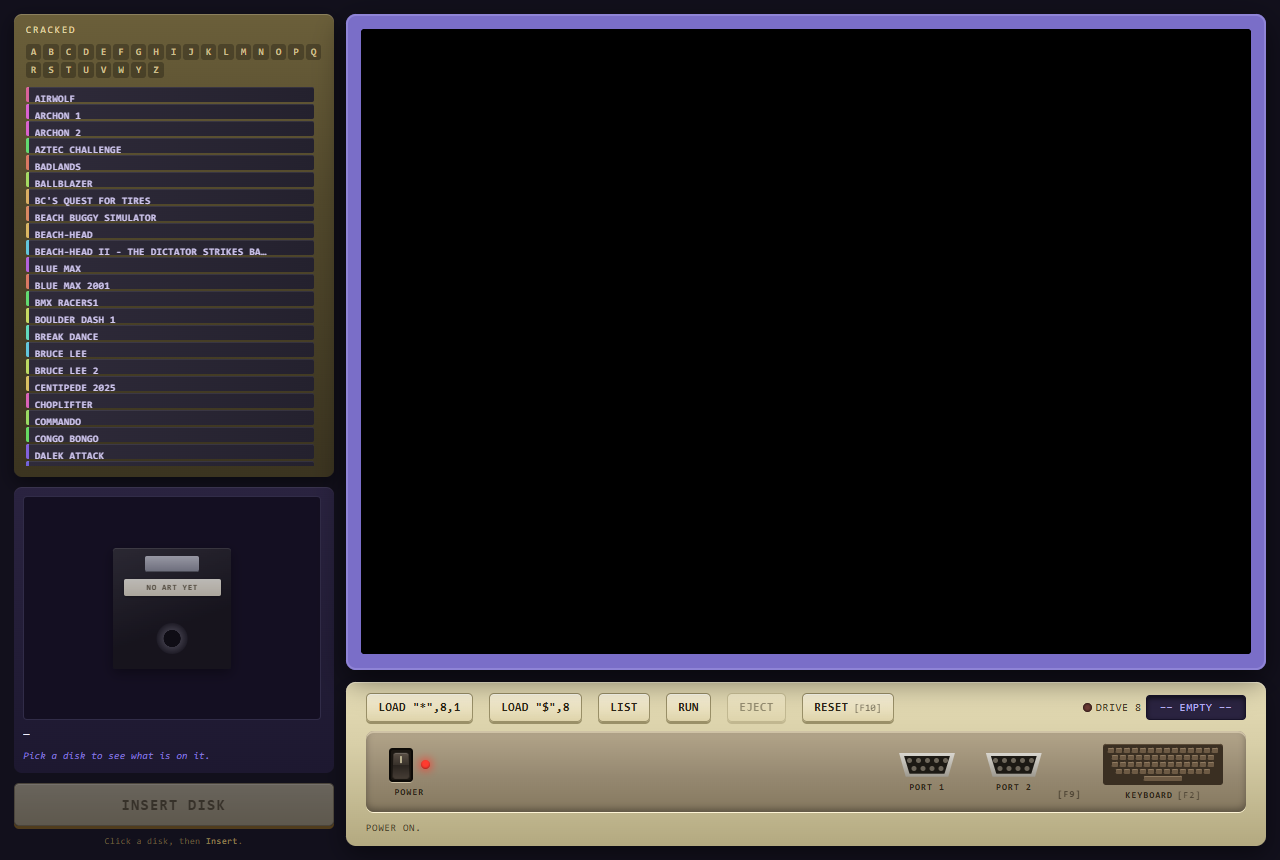
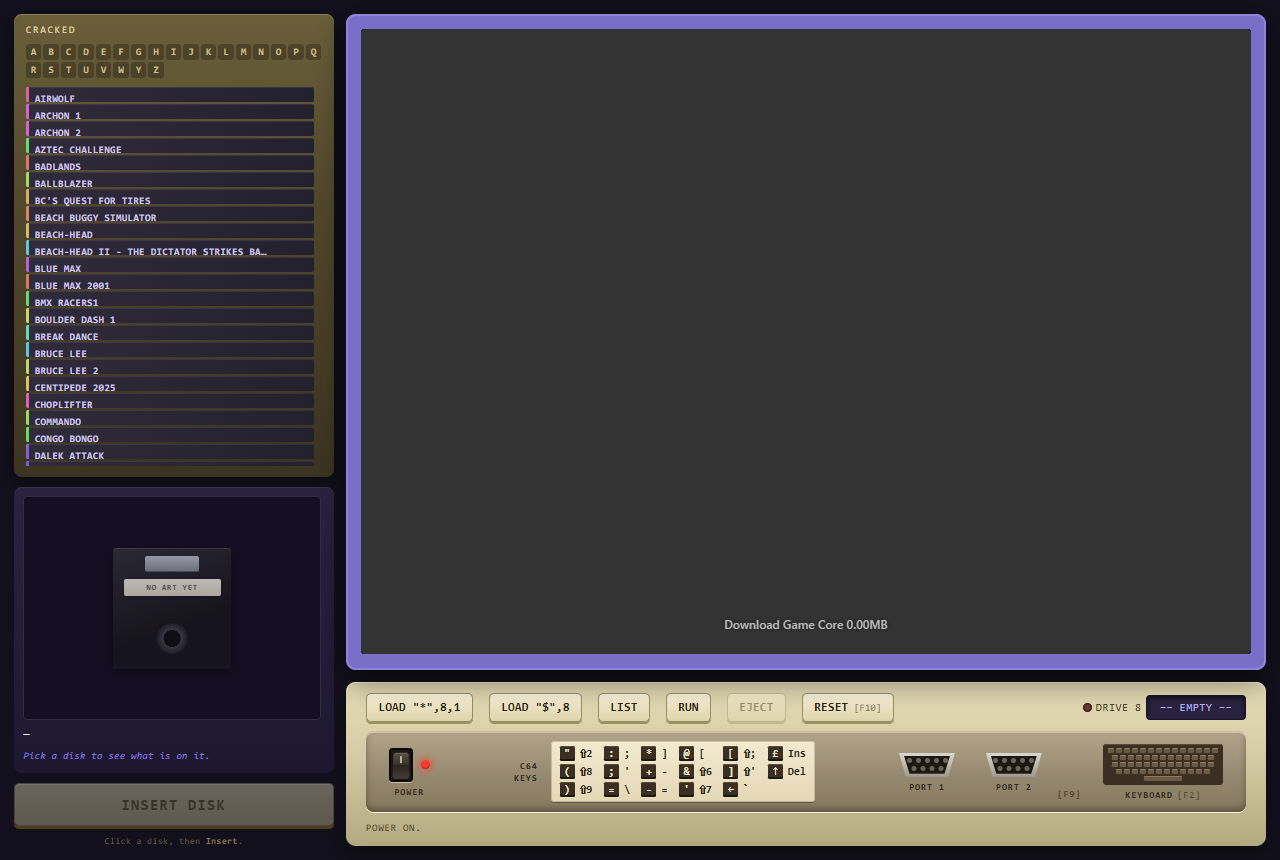
The side panel gains a key card, and the ordinary hub learns to swap sides
Committed on Andrew's word of 2026-09-17, unseen by him: installed Fang Rock
serves Game/ live, so the key card is already on his screen to judge.

THE KEY CARD takes the old .c64-side__gap spacer on #c64-side and says where the
moved characters live, because his ruling of 2026-09-17 made hand typing
POSITIONAL - a key types what sits in that place on a real C64, not what the PC
label says. 17 rows, every one measured by a scratch probe that sent real key
events and read the answer out of screen RAM, not derived from a table: " is
Shift+2, * is ], + is -, : is ;, and so on; everything else is the PC label. The
card dims in joystick mode, when no key types.

THE ORDINARY HUB'S OVERLAY SWAP was broken, and is fixed. Its swapDisk() named a
function EmulatorJS does not have; the real one is setCurrentDisk. A multi-sided
game now boots on an in-memory playlist zip built in playlistMedia() before the
loader, because the core prefers the .m3u inside a zip, and a swap is one
setCurrentDisk call with no reset. One-sided games are untouched. A disk button
also posts cat:focus now: frame.focus() alone lands keys on the iframe's body,
which the core never listens to - a bug that can make a rig "pass" on a stale
screen. emulator/README.md's swap section is rewritten as fixed.

Both rigs are green on a quiet machine: verify-c64 82/0 (new §J reads the rows
off the card and types each, 17/17; new §K drives the overlay swap in a second
[…]

diff --git a/Game/cat/emulator/emu.js b/Game/cat/emulator/emu.js
@@ -24,6 +24,9 @@
    things to check in order are (1) the core loads at all, (2) Ctrl fires,
    (3) a two-disk game swaps without resetting. `./README.md` carries that as
    a checklist.
+   🔄 All three have since been watched on the real core: (1) and (2) on
+   2026-09-08/09, and (3) on 2026-09-17, when the swap was rebuilt on the
+   machine's measured call (see DISK SWAPPING) — verify-c64.mjs §I and §J.
    ========================================================================= */
 (function () {
   "use strict";
@@ -380,6 +383,12 @@
       return;
     }
     if (m.type === "cat:swap") swapDisk(Number(m.index));
+    /* the hub's play-bar buttons take the keyboard with the click. Focusing this
+       iframe from outside only lands keys on its <body>, which the core does
+       not listen to (measured 2026-09-17: after a disk button, typed keys went
+       nowhere) — so the hub asks, and the core's own element takes focus, as
+       the machine's cat:focus does. */
+    if (m.type === "cat:focus" && keyTarget()) keyTarget().focus();
     /* The hub asks for a FLIP, not for a specific state - it has no business
        holding the authoritative value. This answers with what actually took. */
     if (m.type === "cat:input") setInputMode(!kbdMode);
@@ -391,6 +400,18 @@
   /* -----------------------------------------------------------------------
      DISK SWAPPING — ruling 4, built now rather than deferred.
 
+     🔄 2026-09-17 — FIXED, IN LINE WITH THE MACHINE'S SWAP (his ruling: "bring it
+     in line with the corner's working swap"). It never worked: it tried three
+     method names EmulatorJS 4.2.3 does not have (setCurrentDiskIndex,
+     functions.setDisk, setDisk), and the core was only ever handed side 1, so
+     it had no other side to swap to. Now:
+     1. a game with more than one side BOOTS ON A PLAYLIST of all of them
+        (playlistMedia(), in boot) — the same in-memory .m3u zip the machine
+        boots on — so the core's own disk control holds every side from the start;
+     2. a swap is gameManager.setCurrentDisk(index), the call the machine makes,
+        measured live on the running core: the game is NOT reset.
+     A one-sided game still boots on its image directly, exactly as before.
+
      🚨 THE HARD PART, AND WHY THIS REFUSES INSTEAD OF GUESSING. A real
      multi-disk C64 game asks you to swap while it is RUNNING and then reads
      the drive again; the machine is never reset. Reloading the emulator with
@@ -398,60 +419,55 @@
      the game would lose everything and land back at its title screen, and the
      player would blame the game.
 
-     So: try the core's real disk-control interface, and if no shape of it is
-     present, SAY SO and offer a restart the player chooses explicitly. 🚫 Do
-     not make the restart automatic. A silent restart dressed as a swap is the
+     So: use the core's real disk-control interface, and if it is not there,
+     SAY SO and offer a restart the player chooses explicitly. 🚫 Do not make
+     the restart automatic. A silent restart dressed as a swap is the
      silent-wrong-destination failure the hub refuses one layer up.
-
-     ⚠ Three shapes are tried because EmulatorJS's disk-control surface has
-     moved between versions and none of them was available to test against
-     when this was written. Whichever one answers on the real core, keep them
-     all — a version bump is exactly when this quietly stops working.
-     --------------------------------------------------------------------- */
+     ⚠ If an EmulatorJS upgrade renames setCurrentDisk, this refuses (and
+     verify-c64.mjs §J goes red); it never falls back to reloading the page. */
+  var playlist = false;   /* true once this game booted on every side at once */
   function swapDisk(index) {
     if (!(index >= 0 && index < DISKS.length)) return;
     if (index === current) return;
 
-    var gm = window.EJS_emulator && window.EJS_emulator.gameManager;
-    var tried = [];
-
-    function attempt(label, fn) {
-      if (tried.indexOf(true) > -1) return;
-      try {
-        if (fn()) {
-          current = index;
-          toHub({ type: "cat:swapped", index: index, how: label });
-          tried.push(true);
-        }
-      } catch (err) {
-        toHub({ type: "cat:swapnote", note: label + " threw: " + err.message });
-      }
+    var g = gm();
+    /* 🚫 Deliberately not a restart. The hub renders a refusal as a choice. */
+    var refuse = function (reason) { toHub({ type: "cat:swapfailed", index: index, reason: reason }); };
+    if (!playlist) { refuse("this game did not boot with its other sides in the drive's list"); return; }
+    if (!g || typeof g.setCurrentDisk !== "function") { refuse("this core exposes no live disk-control interface"); return; }
+    try {
+      g.setCurrentDisk(index);
+    } catch (err) {
+      toHub({ type: "cat:swapnote", note: "setCurrentDisk threw: " + err.message });
+      refuse("the core refused the swap");
+      return;
     }
+    current = index;
+    toHub({ type: "cat:swapped", index: index, how: "setCurrentDisk" });
+  }
 
-    attempt("setCurrentDiskIndex", function () {
-      if (!gm || typeof gm.setCurrentDiskIndex !== "function") return false;
-      gm.setCurrentDiskIndex(index);
-      return true;
-    });
-    attempt("functions.setDisk", function () {
-      if (!gm || !gm.functions || typeof gm.functions.setDisk !== "function") return false;
-      gm.functions.setDisk(index);
-      return true;
-    });
-    attempt("diskControl", function () {
-      if (!gm || typeof gm.setDisk !== "function") return false;
-      gm.setDisk(index);
-      return true;
-    });
-
-    if (tried.indexOf(true) === -1) {
-      /* 🚫 Deliberately not a restart. The hub renders this as a choice. */
-      toHub({
-        type: "cat:swapfailed",
-        index: index,
-        reason: "this core exposes no live disk-control interface"
+  /* THE PLAYLIST a game with more than one side boots on: every side fetched,
+     then an .m3u naming them in order, zipped with them in memory (zipStore,
+     below). Side 1 is first, so the drive and autostart begin there as they
+     always did. 🚫 Same origin only, like the machine's inserts. */
+  function playlistMedia() {
+    var urls = DISKS.map(sameOriginUrl);
+    var bad = urls.indexOf(null);
+    if (bad !== -1) return Promise.reject(new Error("side " + (bad + 1) + " is not a file from this arcade"));
+    return Promise.all(urls.map(function (u, i) {
+      return fetch(u).then(function (r) {
+        if (!r.ok) throw new Error("side " + (i + 1) + " did not load (HTTP " + r.status + ")");
+        return r.arrayBuffer();
       });
-    }
+    })).then(function (bufs) {
+      var names = urls.map(function (u, i) {
+        var ext = (decodeURIComponent(u.split(/[?#]/)[0]).match(/\.[a-z0-9]{1,4}$/i) || [".d64"])[0].toLowerCase();
+        return "side-" + (i + 1) + ext;
+      });
+      var files = [{ name: "cat.m3u", data: new TextEncoder().encode(names.join("\n") + "\n") }];
+      bufs.forEach(function (b, i) { files.push({ name: names[i], data: new Uint8Array(b) }); });
+      return new File([zipStore(files)], "cat.zip");
+    });
   }
 
   /* =======================================================================
@@ -1005,15 +1021,28 @@
           console.log("[cat] cleared " + repaired.length +
             " cached control table(s) holding an unresolvable key: " + repaired.join(", "));
         }
-        var s = document.createElement("script");
-        s.src = "data/loader.js";
-        s.onerror = function () {
-          tell("the core is there but would not load", [
-            { text: "data/loader.js answered a HEAD request and then failed to execute.", cls: "err" },
-            "That usually means a partial or corrupt download. Delete Game/cat/emulator/data/ and fetch it again."
+        /* a game with more than one side boots on all of them (see DISK
+           SWAPPING). BEFORE the loader, which reads EJS_gameUrl as it starts. */
+        var media = !MACHINE && DISKS.length > 1
+          ? playlistMedia().then(function (file) { window.EJS_gameUrl = file; playlist = true; })
+          : Promise.resolve();
+        return media.then(function () {
+          var s = document.createElement("script");
+          s.src = "data/loader.js";
+          s.onerror = function () {
+            tell("the core is there but would not load", [
+              { text: "data/loader.js answered a HEAD request and then failed to execute.", cls: "err" },
+              "That usually means a partial or corrupt download. Delete Game/cat/emulator/data/ and fetch it again."
+            ]);
+          };
+          document.body.appendChild(s);
+        }, function (err) {
+          tell("a side of this disk would not load", [
+            { text: String(err && err.message || err), cls: "err" },
+            "Nothing was started: a game that asks for its other side and cannot have it would look broken halfway through.",
+            { text: "Check that every side's file is still in Game/disks/, then load it again.", cls: "dim" }
           ]);
-        };
-        document.body.appendChild(s);
+        });
       });
     });
   }

diff --git a/Game/cat/cat.js b/Game/cat/cat.js
@@ -788,6 +788,8 @@
       ? (IN_SHELL ? "Stop the game and go back to the Arcade room" : "Stop the game")
       : "Stop the game and go back to the disk screen";
     frame.src = sourceFor(disk);
+    /* a fresh boot always starts on the first side, whichever was in last time */
+    if (disk.runner === "emulator") disk.side = 0;
     renderSwap(disk);
     /* 🚨 Hidden, NOT set to a guess. Only a cartridge running EmulatorJS has an
        input mode at all - a plain cartridge has none - so this stays out of the
@@ -1177,6 +1179,45 @@
      loop printing PEEK(56320),PEEK(56321) read the stick on port 2 ($DC00 126),
      then after one live switch on port 1 ($DC01 254), then back. */
   var side = { keyboard: null, port: null };
+
+  /* THE KEY CARD — his ruling of 2026-09-17. The machine types on a real C64's
+     key POSITIONS (emu.js, vice_keyboard_keymap), so a PC key's label is not
+     always what appears. The card on the side panel lists every character that
+     sits somewhere else, so nobody has to guess that `"` is Shift+2.
+     📌 EVERY ROW WAS MEASURED on the running core the same day: each PC key
+     pressed with real key events, with and without Shift, and the character read
+     back out of the C64's screen memory. Anything not listed types where its PC
+     label says: letters, digits, space, ! # $ % , . / < > ?
+     verify-c64 §J presses every row again, reading the keys off the card itself.
+     Column-first, three to a column: [C64 character, what the card shows, the key] */
+  var KEYCARD = [
+    ['"', "⇧2", "Shift+2"], ["(", "⇧8", "Shift+8"], [")", "⇧9", "Shift+9"],
+    [":", ";", ";"],        [";", "'", "'"],        ["=", "\\", "\\"],
+    ["*", "]", "]"],        ["+", "-", "-"],        ["-", "=", "="],
+    ["@", "[", "["],        ["&", "⇧6", "Shift+6"], ["'", "⇧7", "Shift+7"],
+    ["[", "⇧;", "Shift+;"], ["]", "⇧'", "Shift+'"], ["←", "`", "`"],
+    ["£", "Ins", "Insert"], ["↑", "Del", "Delete"]
+  ];
+  function renderKeycard() {
+    var list = document.getElementById("c64-keycard-list");
+    list.textContent = "";
+    KEYCARD.forEach(function (k) {
+      var row = document.createElement("div");
+      row.className = "c64-keycard__row";
+      row.dataset.c64 = k[0];
+      row.dataset.key = k[2];
+      var dt = document.createElement("dt");
+      dt.textContent = k[0];
+      var dd = document.createElement("dd");
+      dd.textContent = k[1];
+      dd.title = k[0] + " is " + k[2];
+      dd.setAttribute("aria-label", k[2]);
+      row.appendChild(dt);
+      row.appendChild(dd);
+      list.appendChild(row);
+    });
+  }
+
   function paintSide() {
     var kbd = side.keyboard === true, joy = side.keyboard === false;
     var lit = function (el, on, grey) {
@@ -1261,6 +1302,7 @@
     sidePort1.title = "Joystick in port 1 (" + HOTKEY_PORT + " swaps ports)";
     sidePort2.title = "Joystick in port 2 (" + HOTKEY_PORT + " swaps ports)";
     sideKeys.title = "Type on the keyboard (" + HOTKEY_INPUT + " switches to the joystick)";
+    renderKeycard();
     paintPower(true);
     paintSide();
     sidePower.addEventListener("click", pressPower);
@@ -1333,7 +1375,16 @@
            would make the UI claim a swap that may not have happened — the
            exact class of lie the swapfailed branch below exists to prevent. */
         if (MACHINE && disk === inserted && !running) { postMachine({ type: "cat:swap", index: i }); focusMachine(); }
-        else frame.contentWindow.postMessage({ type: "cat:swap", index: i }, "*");
+        else {
+          frame.contentWindow.postMessage({ type: "cat:swap", index: i }, "*");
+          /* the keyboard goes back to the game, as it does on the machine: a
+             game that asked for the other side is waiting for a key next, and a
+             focused button would take that key (Space would swap again).
+             🚨 BOTH steps: frame.focus() alone puts keys on the frame's body,
+             which the core ignores; cat:focus moves them onto the core. */
+          frame.focus();
+          frame.contentWindow.postMessage({ type: "cat:focus" }, "*");
+        }
       });
       swapBar.appendChild(b);
     });

diff --git a/Game/cat/cat.css b/Game/cat/cat.css
@@ -1170,7 +1170,57 @@ html.cat-link #cat { visibility: hidden; }
 .c64-part__hint { font-weight: 400; opacity: .7; margin-left: .45em; }
 .c64-part__hint::before { content: "["; }
 .c64-part__hint::after  { content: "]"; }
-.c64-side__gap { flex: 1 1 auto; }
+
+/* the key card: a paper reference card stuck to the case between the power
+   switch and the ports. It takes the room the old spacer did (flex: 1), so the
+   ports stay right. Each C64 character sits on a dark key cap, the PC key that
+   types it beside it. Dimmed while the stick is the input, when no key types. */
+.c64-keycard {
+  flex: 1 1 auto;
+  min-width: 0;
+  display: flex;
+  align-items: center;
+  justify-content: center;
+  gap: clamp(8px, 1vw, 14px);
+  font-family: var(--mono);
+  color: #2c2418;
+  transition: opacity 240ms ease;
+}
+.c64-keycard__title {
+  font-size: clamp(9px, 1.1vh, 11px);
+  font-weight: 700;
+  letter-spacing: .08em;
+  line-height: 1.25;
+  text-transform: uppercase;
+  text-align: right;
+}
+.c64-keycard__list {
+  margin: 0;
+  display: grid;
+  grid-auto-flow: column;
+  grid-template-rows: repeat(3, auto);
+  column-gap: clamp(8px, .9vw, 14px);
+  row-gap: 3px;
+  padding: 5px 9px;
+  border-radius: 3px;
+  background: linear-gradient(#f3ead0, #e4d7b4);
+  box-shadow: 0 1px 0 rgba(0, 0, 0, .28), inset 0 0 0 1px rgba(92, 76, 50, .25);
+}
+.c64-keycard__row { display: flex; align-items: center; gap: 5px; white-space: nowrap; }
+.c64-keycard__row dt {
+  min-width: 15px;
+  padding: 0 3px;
+  border-radius: 2px;
+  background: #3a2f22;
+  box-shadow: inset 0 -2px 0 #1f1810, inset 0 1px 0 #5a4a36;
+  color: #f1e6c8;
+  font-size: 11px;
+  font-weight: 700;
+  line-height: 15px;
+  text-align: center;
+}
+.c64-keycard__row dd { margin: 0; font-size: 11px; font-weight: 700; line-height: 15px; }
+#c64-side[data-mode="joystick"] .c64-keycard { opacity: .45; }
 
 /* power: a rocker in its housing, and the red light */
 .c64-power__body { display: flex; align-items: center; gap: 8px; }

diff --git a/Game/cat/index.html b/Game/cat/index.html
@@ -137,7 +137,15 @@
         </span>
         <span class="c64-part__label">Power</span>
       </button>
-      <span class="c64-side__gap" aria-hidden="true"></span>
+      <!-- 🆕 2026-09-17 — THE KEY CARD (his ruling). The machine types on a real
+           C64's key positions, so the characters that sit somewhere else on a PC
+           keyboard are listed on a card stuck to the case. It also takes the gap
+           that pushed the ports right. Rows come from KEYCARD in cat.js, every
+           one measured on the running core; verify-c64 §J types each. -->
+      <div class="c64-keycard" id="c64-keycard" role="group" aria-label="C64 keys: where each character is on this keyboard">
+        <span class="c64-keycard__title" aria-hidden="true">C64<br>keys</span>
+        <dl class="c64-keycard__list" id="c64-keycard-list"></dl>
+      </div>
       <button type="button" class="c64-part c64-port" id="c64-port1" data-port="1" aria-pressed="false"
               title="Joystick in port 1">
         <span class="c64-port__plug" aria-hidden="true"><span class="c64-port__pins"><i></i><i></i><i></i><i></i><i></i><i></i><i></i><i></i><i></i></span></span>

diff --git a/Game/cat/emulator/README.md b/Game/cat/emulator/README.md
@@ -109,10 +109,12 @@ reasoning; the measured facts it rests on:
 - **Proof:** `../verify-c64.mjs` runs under the shell's own Electron and reads the C64's screen
   memory. Headless Chrome cannot run the core at all.
 
-⚠ Still open from the first-run checklist below: **disk swapping in the play overlay** (the
-ordinary hub's cracked disks). `swapDisk()` tries three method names EmulatorJS 4.2.3 does not
-have — the real one is `gameManager.setCurrentDisk(n)` — and the overlay only hands the core
-side 1. The machine does its own swaps (slot writes) and is not affected.
+✅ **Disk swapping in the play overlay** (the ordinary hub, outside Fang Rock) was fixed on
+2026-09-17, in line with the machine's swap. It used to try three method names EmulatorJS 4.2.3
+does not have and hand the core side 1 only. Now a game with more than one side boots on an
+in-memory **playlist** (an `.m3u` zipped with every side, like the machine's boot media), and a
+swap is `gameManager.setCurrentDisk(n)`: the running game is not reset. A one-sided game still
+boots on its image directly. `../verify-c64.mjs` §K proves it in a window without Fang Rock.
 
 ## ⚠ First-run checklist — three things that are written but not yet watched working
 
@@ -124,7 +126,7 @@ names itself** rather than degrading quietly. Check them in this order the first
 |---|---|---|---|
 | 1 | The core loads and a disk autostarts | `EJS_core` / `EJS_gameUrl` | The page will already be telling you which step failed |
 | 2 | **Ctrl fires**, arrows move | `EJS_defaultControls`, player 0, index 0 = B | Remap the index; the C64 stick has one button, so a second binding does nothing |
-| 3 | **A two-disk game swaps without resetting** | `swapDisk()` — three API shapes tried in order | It reports `cat:swapfailed` and the hub offers an explicit restart. 🚫 Never make that restart automatic |
+| 3 | **A two-disk game swaps without resetting** ✅ 2026-09-17 | `swapDisk()` — `setCurrentDisk` over a playlist of every side | It reports `cat:swapfailed` and the hub offers an explicit restart. 🚫 Never make that restart automatic |
 
 Also unverified: the joystick-port option pair (`vice_joyport` / `"1"` `"2"`). If the hub's port
 flip appears to do nothing, check that key and value against the core's own option list before
